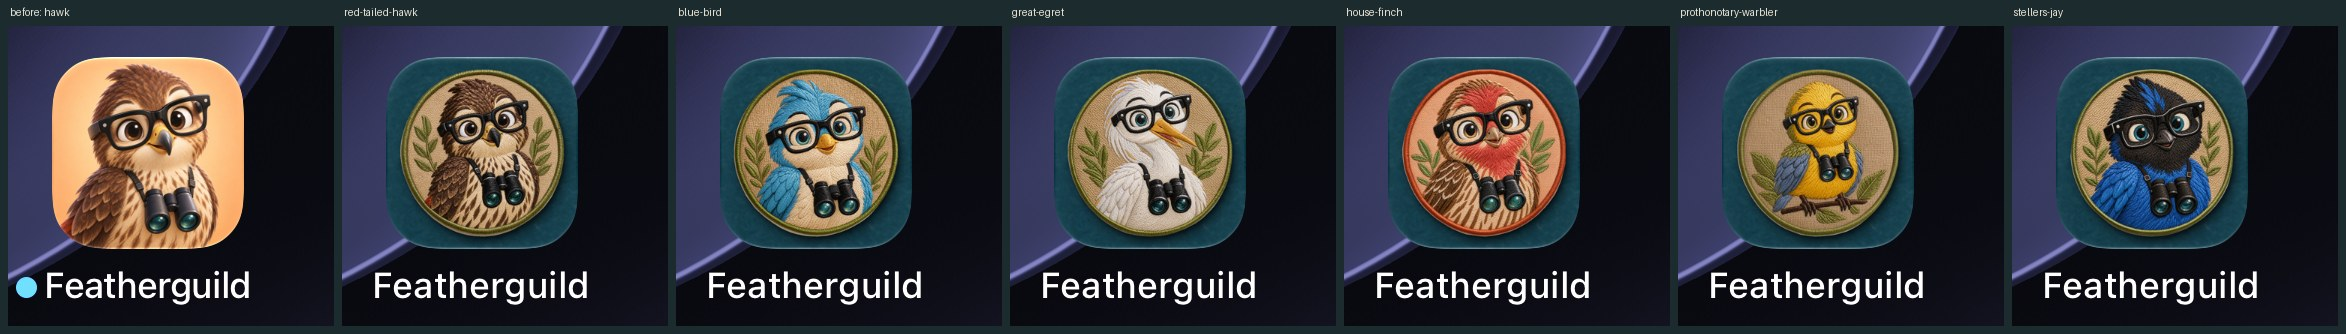
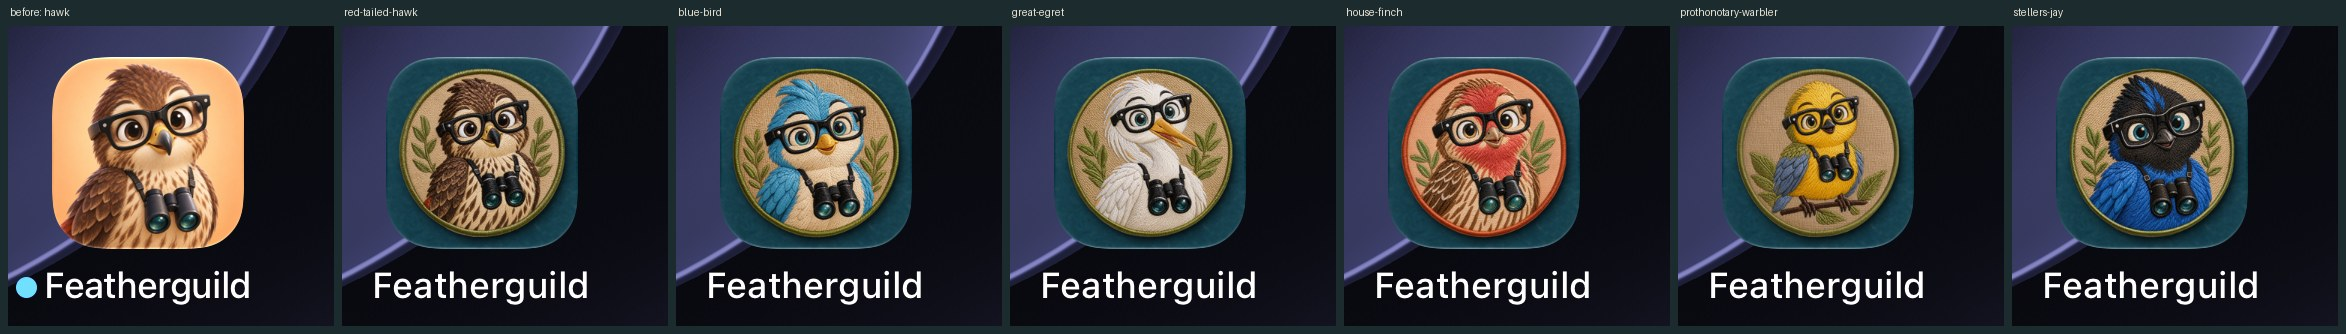
Mascot: the shots and size after the trim (#150)

diff --git a/DECISIONS.md b/DECISIONS.md
@@ -1070,7 +1070,7 @@ The maintainer's picks ship as they are: finch on peach, the others on tan, the 
 - **The icons keep their names**, `MyBirdJournal-*`, because iOS remembers an alternate icon by name, so someone who chose a bird keeps that bird. The hawk stays the primary. The pictures they replace moved to `art/mascot/icons/`, unchanged: the lock pins each patch to its source's hash, and a changed hash starts a new round and takes the approval back.
 - **The ground is the app's felt in petrol** (#0E343C, about the felt on the mock's Guild page), the same for all six. Every patch stands out on it, the peach finch most of all, and it's what a patch sits on in the app. Moss looked muddy under the olive cords, and oatmeal lost the tan patches' edge at 60 pt. The patch takes 88% of the icon's width: larger crowds its shadow, and smaller loses the glasses on the home screen.
 - **Flattened, with no glass.** One opaque RGB picture with the shadow in it, over a solid fill, `specular` and group shadow off, so the system adds no rim to cloth. A layered icon went black behind the patch in Dark, so the ground wouldn't be the ground. Tinted and Clear are the system's monochrome of the whole square.
-- **Size.** iOS keeps three lossless 1024 px renderings of each icon, so an icon's cost follows its entropy, not its picture's size. Fine felt fibre cost about 1.3 MB an icon and a 1024 px picture about another 1.3 MB, neither visible by 180 px, so the felt is softened (3 px blur at 1024) and the alternates are 512 px; only the primary, which the App Store shows, is 1024. `Assets.car` for an iPhone went from 42.61 MB to 42.03 MB (0.58 MB smaller), with the finch at 0.59 MB in it, measured from Debug simulator builds; the whole app bundle is within 0.3 MB of what it was.
+- **Size.** iOS keeps three lossless 1024 px renderings of each icon, so an icon's cost follows its entropy, not its picture's size. Fine felt fibre cost about 1.3 MB an icon and a 1024 px picture about another 1.3 MB, neither visible by 180 px, so the felt is softened (3 px blur at 1024) and the alternates are 512 px; only the primary, which the App Store shows, is 1024. `Assets.car` for an iPhone went from 42.61 MB to 42.38 MB (0.23 MB smaller), measured from Debug simulator builds: the icons 0.85 MB smaller, the finch 0.53 MB larger than the drawing's picture, the thumbnails 0.05 MB larger.
 - **One finch picture**, `PerchedFinch`, 240 pt square with the 200 pt patch and its shadow baked in, because a launch screen can't draw a shadow. The launch screen, the splash and the states all draw it, so nothing shifts between launch and splash. The title keeps its offset from the bottom of the picture, which is taller than the drawing's, so it sits 48 pt lower; that keeps the splash's change to the art, for slice 3. It's the same picture in both appearances, so its shadow is stronger than the lit patches' 38% and 28%: at their strength it vanished on the dark felt.
 - **The launch screen can show only its colour after an install over a build with the old picture.** It's the system's cache, not the app: `com.apple.splashboard` keeps the old asset catalog, where `PerchedFinch` doesn't exist. On the simulator, uninstalling first and bumping the version both stayed blank, and once launched that way the blank snapshot survived a restart; only a later install cleared it. A restart between the install and the first launch shows the finch, which is how the evidence is taken. The worst case is the paper colour, and on first launch the splash then brings the finch in. Whether a phone does this after an update is an on-phone check.
 - **What ships stops at the cord** (`trimmed_to_cord`, at build time). The cut patches kept pale card and the shadow painted on it outside the cord, up to about 11 px of 1024 and on every bird: plain on the 1024 px primary icon and on the dark launch screen, faint at 60 pt. The outline is the convex hull of the thread near the edge, and the patch is cropped to it so it stays centred. Only the alpha changes, in the app's copies: the approved files and their hashes are as the maintainer chose them. Thread is told from card by the share of its colour, not the amount: (largest channel less smallest) of at least 38% of the largest. An amount (60) took the cord's shaded outer side for the painted shadow and cut up to 32 px into it, thinning the cord by half on the hawk, the egret, the warbler and the jay. Before and after: `docs/screenshots/150/mascot/icon-edges-before-after.jpg`.
